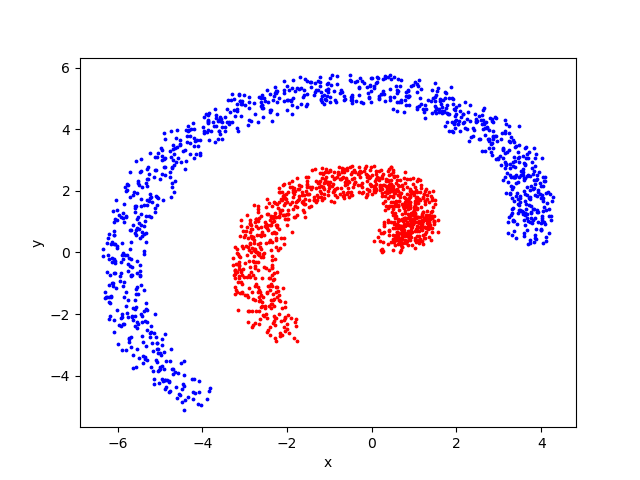
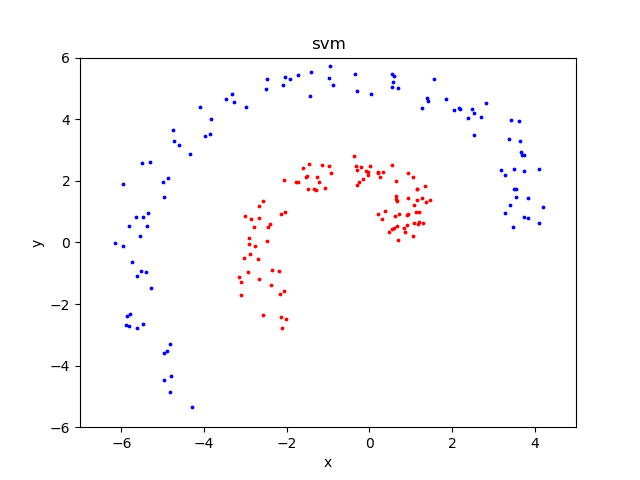
added svm code (not finished)

diff --git a/intelligent_system/07/kernel.py b/intelligent_system/07/kernel.py
@@ -1,20 +1,102 @@
 import math
 import random
+import sklearn
+import sklearn.metrics
 import numpy as np
 import matplotlib.pyplot as plt
 
+def kernel(xi, xj, h = 0.3):
+    return np.exp(- np.sum((xi - xj) ** 2) / (2 * h ** 2))
+
+def create_k_matrix(n, x_data):
+	K = np.zeros((n, n), dtype = float)
+	for i in range(n):
+		for j in range(n):
+			K[i, j] = kernel(x_data[i], x_data[j])
+	return K
+
+def culc_theta(n, K, lam, y_data):
+	return np.dot(np.dot(np.linalg.inv(np.dot(K, K) + lam * np.eye(n)), K), y_data)
+
+def culc_theta_kernel(x, theta, x_data):
+	sum_theta_kernel = 0
+	for i in range(len(x_data)):
+		sum_theta_kernel += theta[i] * kernel(x, x_data[i])
+	return sum_theta_kernel
+
 def generate_data(n):
-	x_data, y_data = [], []
+	x_data, y_data, x_org, y_org = [], [], [], []
 	for i in range(n):
 		x = 6 * ((float(i + 1) / float(n - 1)) - 0.5)
 		x_data.append(x)
-		y_data.append( math.sin(math.pi * x) / (math.pi * x) + 0.1 * x + random.normalvariate(0, 0.2 ** 2))
-	return x_data, y_data
+		x_org.append(x)
+		y_data.append( math.sin(math.pi * x) / (math.pi * x) + 0.1 * x + random.normalvariate(0, 0.2 ** 2) )
+		y_org.append( math.sin(math.pi * x) / (math.pi * x) + 0.1 * x )
+	return x_data, y_data, x_org, y_org
+
+def predict_plot(n, lam, x_data, y_data):
+	K = create_k_matrix(n, x_data)
+	theta = culc_theta(n, K, lam, y_data)
+	x_plot = np.arange(-3, 3, 0.01)
+	y_plot = np.zeros(len(x_plot))
+	for i in range(len(x_plot)):
+		y_plot[i] = culc_theta_kernel(x_plot[i], theta, x_data)
+	return x_plot, y_plot, theta
+
+def cross_validation(n, k, lam, x_data, y_data):
+	size = n // k
+	N = n - size
+	n_plot = 600
+	x_plot_mat = np.zeros((0 , n_plot))
+	y_plot_mat = np.zeros((0 , n_plot))
+	mse_list = []
+	for i in range(k):
+		if i == 0:
+			train_x_data = x_data[size:]
+			train_y_data = y_data[size:]
+			test_x_data = x_data[:size]
+			test_y_data = y_data[:size]
+		elif i == k - 1:
+			train_x_data = x_data[:-size]
+			train_y_data = y_data[:-size]
+			test_x_data = x_data[i * size:]
+			test_y_data = y_data[i * size:]
+		else:
+			train_x_data = np.concatenate((x_data[:size * i], x_data[size * i + size:]))
+			train_y_data = np.concatenate((y_data[:size * i], y_data[size * i + size:]))
+			test_x_data = x_data[i * size:i * size + size]
+			test_y_data = y_data[i * size:i * size + size]
+		train_x_plot, train_y_plot, theta = predict_plot(N, lam, train_x_data, train_y_data)
+		x_plot_mat = np.concatenate((x_plot_mat, np.reshape(train_x_plot, (1, n_plot))))
+		y_plot_mat = np.concatenate((y_plot_mat, np.reshape(train_y_plot, (1, n_plot))))
+		test_f_data = []
+		for j in range(size):
+			test_f_data.append( culc_theta_kernel(test_x_data[j], theta, train_x_data) )
+		mse_list.append( sklearn.metrics.mean_squared_error(test_f_data, test_y_data) )
+
+	ave_x_plot = np.average(x_plot_mat, axis = 0)
+	ave_y_plot = np.average(y_plot_mat, axis = 0)
+	return ave_x_plot, ave_y_plot, mse_list
 
 if __name__ == "__main__":
 	n = 1000
-	x_data, y_data = generate_data(n)
-	plt.scatter(x_data, y_data, s = 3)
+	k = 10
+	lam = 0.5
+
+	x_data, y_data, x_org, y_org = generate_data(n)
+	sklearn.utils.shuffle(x_data, y_data)
+	plt.scatter(x_data, y_data, s = 1)
+	plt.plot(x_org, y_org, color = "g", label = "original", linewidth = 0.5)
+	
+	x_plot, y_plot, mse_list = cross_validation(n, k, lam, x_data, y_data)
+	print(mse_list)
+	error = np.average(mse_list)
+	plt.plot(x_plot, y_plot, color = "r", label = "predicted\n(h = 0.3, lambda = 0.5, error = {})".format(error), linewidth = 0.5)
+
+	plt.xlim(-3, 3)
+	plt.ylim(-0.6, 1.2)
+	plt.title("gaussian kernel model")
+	plt.legend(fontsize = 'x-small')
 	plt.xlabel("x")
 	plt.ylabel("y")
-	plt.savefig("kernel.png")
+	plt.savefig("kernel_h03.png")

diff --git a/intelligent_system/07/svm.py b/intelligent_system/07/svm.py
@@ -15,13 +15,92 @@ def generate_data(n):
 		n_data = np.append(n_data, [[nx1], [nx2]], axis = 1)
 	return p_data, n_data
 
+def kernel(xi, xj, h = 0.3):
+    return np.exp(- np.sum((xi - xj) ** 2) / (2 * h ** 2))
+
+def create_k_matrix(n, data):
+	K = np.zeros((n, n), dtype = float)
+	for i in range(n):
+		for j in range(n):
+			K[i, j] = kernel(data[:, i], data[:, j])
+	return K
+
+def culc_theta_kernel(x, theta, data):
+	sum_theta_kernel = 0
+	for i in range(len(data)):
+		sum_theta_kernel += theta[i] * kernel(x, data[:, i])
+	return sum_theta_kernel
+
+def svm(n, max_iters, e, b, c, threshold, p_data, n_data):
+	px1, px2 = p_data
+	print(p_data.shape)
+	nx1, nx2 = n_data
+	data = np.concatenate((p_data, n_data), axis = 1)
+	print(data.shape)
+	label = np.concatenate((np.ones(n // 2), np.full(n // 2, -1)))
+	theta = np.zeros(n)
+	K = create_k_matrix(n, data)
+	for iters in range(max_iters):
+		for i in range(n):
+			d = np.zeros(n)
+			if 1 - culc_theta_kernel(n, theta, data) * label[i] > 0:
+				for j in range(n):
+					d[j] += - label[i] * kernel(data[:, i], data[:, j])
+		theta = theta - e * (e * d + 2 * np.dot(K, theta))
+		e *= b
+		print("theta = \n{}".format(theta))
+		print("iter %d finished" %(iters))
+	
+	values = np.array([])
+	plot = np.zeros((2, 0))
+	axis_range = np.linspace(-6, 6, 100)
+	for i in axis_range:
+		for j in axis_range:
+			value = abs(culc_theta_kernel(np.array([i, j]), theta, data))
+			print(i, j, value)
+			values = np.append(values, value)
+			if value < threshold:
+				plot = np.concatenate((plot, np.array([[i], [j]])), axis = 1)
+		print("iter %d finished" %(i))
+	print(plot.shape)
+	values = np.reshape(values, (100, 100))
+	# 等高線の実装
+	levels = []
+	for i in range(20):
+		levels.append(1 * (i + 1))
+	'''
+	x = np.linspace(-6, 6, 100)
+	y = np.linspace(-6, 6, 100)
+	X, Y = np.meshgrid(x, y)
+	print(X.shape)
+	print(type(X))
+	print(X)
+	Z = culc_theta_kernel(np.array([X, Y]), theta, data)
+	#Z = X ** 2 + Y ** 2
+	#print(Z.shape)
+	'''
+	plt.contour(axis_range, axis_range, values, levels = levels)
+	
+	return plot
+
 if __name__ == "__main__":
-	n = 1000
+	n = 100
+	max_iters = 100
+	e = 0.5
+	b = 0.8
+	c = 1
+	threshold = 0.01
 	p_data, n_data = generate_data(n)
-	px, py = p_data
-	nx, ny = n_data
-	plt.scatter(px, py, s = 3, c = "r")
-	plt.scatter(nx, ny, s = 3, c = "b")
+	x1_plot, x2_plot = svm(n * 2, max_iters, e, b, c, threshold, p_data, n_data)
+	px1, px2 = p_data
+	nx1, nx2 = n_data
+	plt.scatter(px1, px2, s = 3, c = "r")
+	plt.scatter(nx1, nx2, s = 3, c = "b")
+	#plt.scatter(x1_plot, x2_plot, s = 3, c = "g")
+	#plt.plot(x1_plot, x2_plot, color = "g", linewidth = 0.5)
+	plt.title("svm")
+	plt.xlim(-7, 5)
+	plt.ylim(-6, 6)
 	plt.xlabel("x")
 	plt.ylabel("y")
 	plt.savefig("svm.png")
